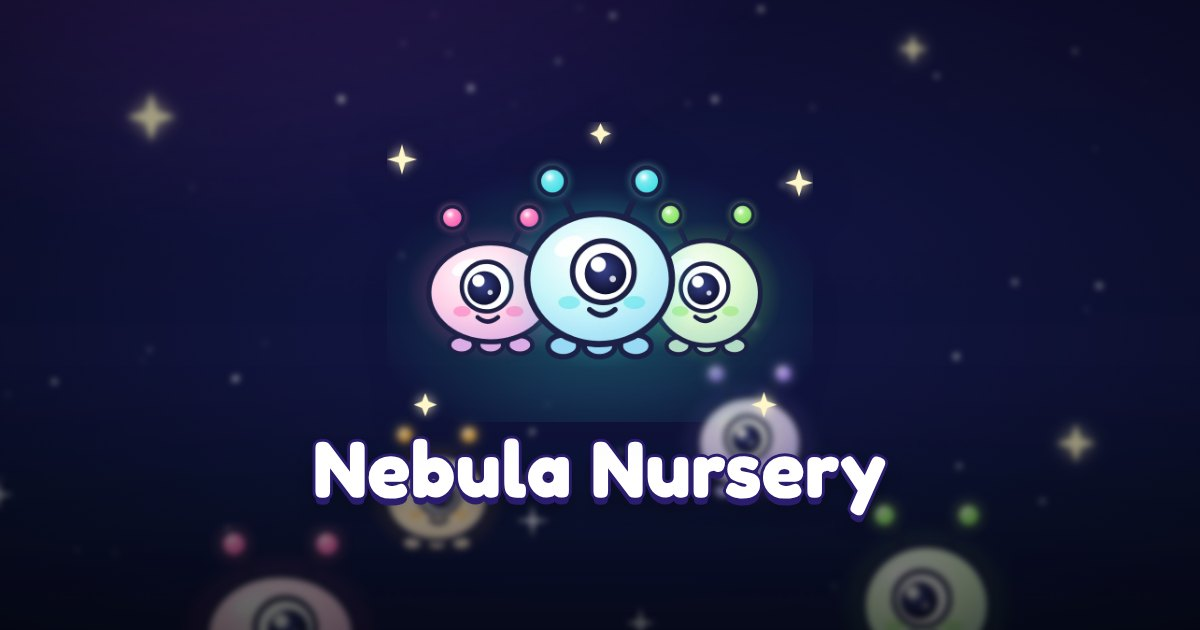
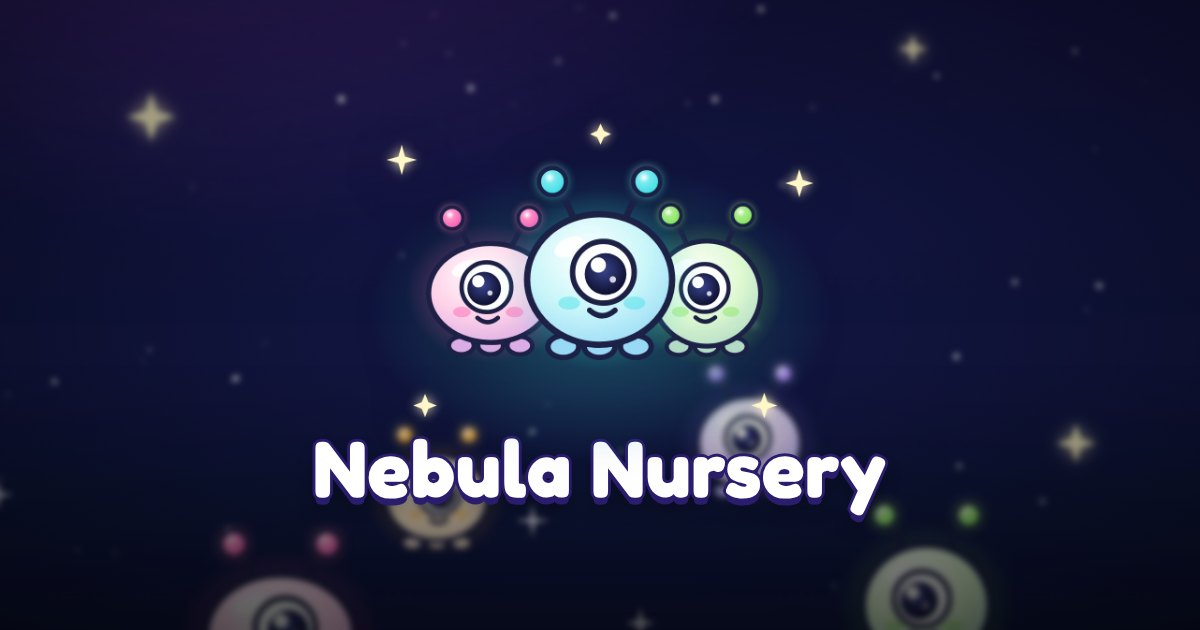
Engine 2026-10-20.1: askPlayerName option, share card glow fix, README play link check, engine problems reported directly (from ludea-ai/game-engine#21)
Claude-Session: https://claude.ai/code/session_01AuPULQEV2kyQe5SsTqgkcW

diff --git a/index.html b/index.html
@@ -11,12 +11,12 @@
   <meta name="apple-mobile-web-app-status-bar-style" content="black-translucent" />
   <meta name="apple-mobile-web-app-title" content="Nebula" />
   <title>Nebula Nursery</title>
-  <link rel="manifest" href="manifest.webmanifest?v=v65" />
-  <link rel="icon" type="image/png" href="assets/favicon.png?v=v65" />
-  <link rel="apple-touch-icon" href="assets/apple-touch-icon.png?v=v65" />
+  <link rel="manifest" href="manifest.webmanifest?v=v66" />
+  <link rel="icon" type="image/png" href="assets/favicon.png?v=v66" />
+  <link rel="apple-touch-icon" href="assets/apple-touch-icon.png?v=v66" />
   <link rel="preload" href="vendor/fonts/fredoka-latin.woff2" as="font" type="font/woff2" crossorigin />
-  <link rel="stylesheet" href="engine.css?v=v65" />
-  <link rel="stylesheet" href="style.css?v=v65" />
+  <link rel="stylesheet" href="engine.css?v=v66" />
+  <link rel="stylesheet" href="style.css?v=v66" />
   <!-- ludea:share (generated by share-preview.cjs — do not edit by hand) -->
   <meta name="description" content="Look after the little glowing critters!" />
   <meta property="og:type" content="website" />
@@ -24,7 +24,7 @@
   <meta property="og:title" content="Ludea – Nebula Nursery" />
   <meta property="og:description" content="Look after the little glowing critters!" />
   <meta property="og:url" content="https://ludea.ai/nebula/" />
-  <meta property="og:image" content="https://ludea.ai/nebula/assets/share.jpg?v=be70d16163" />
+  <meta property="og:image" content="https://ludea.ai/nebula/assets/share.jpg?v=e59fe0ad7e" />
   <meta property="og:image:width" content="1200" />
   <meta property="og:image:height" content="630" />
   <meta property="og:image:alt" content="Nebula Nursery" />
@@ -33,7 +33,7 @@
   <meta name="twitter:card" content="summary_large_image" />
   <meta name="twitter:title" content="Ludea – Nebula Nursery" />
   <meta name="twitter:description" content="Look after the little glowing critters!" />
-  <meta name="twitter:image" content="https://ludea.ai/nebula/assets/share.jpg?v=be70d16163" />
+  <meta name="twitter:image" content="https://ludea.ai/nebula/assets/share.jpg?v=e59fe0ad7e" />
   <!-- /ludea:share -->
 </head>
 <body>
@@ -121,9 +121,9 @@
   <!-- Night veil ("rest" transition), fullscreen -->
   <div id="night-veil"></div>
 
-  <script src="vendor/phaser.min.js?v=v65"></script>
-  <script src="game.config.js?v=v65"></script>
-  <script src="game.i18n.js?v=v65"></script>
-  <script src="engine.js?v=v65"></script>
+  <script src="vendor/phaser.min.js?v=v66"></script>
+  <script src="game.config.js?v=v66"></script>
+  <script src="game.i18n.js?v=v66"></script>
+  <script src="engine.js?v=v66"></script>
 </body>
 </html>

diff --git a/engine.js b/engine.js
@@ -329,6 +329,7 @@ function variantId(c) {
 }
 function variantDef(id) { return VARIANTS.find((v) => v.id === id) || VARIANTS[0]; }
 function charDef(id) { return CHARACTERS.find((p) => p.id === id) || CHARACTERS[0]; }
+const ASK_NAME = META.askPlayerName !== false; // false: the player's name is the chosen character's name
 
 /* ===================== Creatures ===================== */
 
@@ -717,6 +718,7 @@ function continueGame() {
   state = s;
   if (!state.player) state.player = { avatar: CHARACTERS[0].id };
   if (!charDef(state.player.avatar) || !CHARACTERS.some((p) => p.id === state.player.avatar)) state.player.avatar = CHARACTERS[0].id;
+  if (!ASK_NAME) state.player.name = charDef(state.player.avatar).name; // a name typed before the option was set is not kept
   if (!state.resources) state.resources = Object.assign({}, ECON.startResources || {});
   if (!state.decors) state.decors = [];
   state.decors = state.decors.filter((d) => d && DECOR.some((x) => x.id === d.id) && typeof d.x === "number");
@@ -936,9 +938,10 @@ function openCreate(player, onValidate) {
     b.innerHTML = iconHTML("arrow"); b.classList.toggle("hidden", !many);
     b.onclick = () => step(i ? 1 : -1);
   });
-  cont.innerHTML = `<div class="avatar-row" id="grp-avatar"></div>
+  // meta.askPlayerName:false — the player IS a named hero: no name field, the hero keeps its own name.
+  cont.innerHTML = `<div class="avatar-row" id="grp-avatar"></div>` + (!ASK_NAME ? "" : `
     <label class="field-label" for="create-name">${esc(META.namePromptYou || L("Your name"))}</label>
-    <input id="create-name" type="text" maxlength="14" placeholder="${esc(META.namePromptYou || L("Your name"))}" value="${esc(pendingPlayer.name || "")}" />`;
+    <input id="create-name" type="text" maxlength="14" placeholder="${esc(META.namePromptYou || L("Your name"))}" value="${esc(pendingPlayer.name || "")}" />`);
   const ga = $("grp-avatar");
   if (!many) ga.classList.add("hidden");
   CHARACTERS.forEach((p) => {
@@ -950,8 +953,8 @@ function openCreate(player, onValidate) {
   });
   draw();
   $("btn-create-ok").onclick = () => {
-    const n = $("create-name").value.trim();
-    pendingPlayer.name = n || pendingPlayer.name || charDef(pendingPlayer.avatar).name;
+    const n = ASK_NAME ? $("create-name").value.trim() : "";
+    pendingPlayer.name = ASK_NAME ? (n || pendingPlayer.name || charDef(pendingPlayer.avatar).name) : charDef(pendingPlayer.avatar).name;
     onValidate();
     if (state) { $("screen-create").classList.add("hidden"); $("screen-game").classList.remove("hidden"); themeColor(TINT_PLAY); buildHud(); refreshHud(); }
   };

diff --git a/game.config.js b/game.config.js
@@ -35,12 +35,13 @@ window.GAME = {
     saveKey: "nebula-nursery",
     legalLinks: [{ label: "Legal notice", url: "https://ludea.ai/legal/" }, { label: "Privacy", url: "https://ludea.ai/privacy/" }, { label: "Contact", url: "https://ludea.ai/contact/" }],
     audience: { minAge: 6, notes: "all-ages, gentle, cute, no violence" },
-    assetVersion: "v65",
+    assetVersion: "v66",
     theme: { home: "#120c34", play: "#0b1029", closeup: "#1b1150" },
     showCoins: true,
     coinIcon: "shard",                // the currency: star shards
     namePrompt: { label: "Name your nursery:", placeholder: "Starlight Bay" },
     startName: "My Nursery",
+    askPlayerName: false,               // the keeper IS Bolt or Sol: no "Your name" field, the robot keeps its name
     namePromptYou: "Your name",
     avatarPrompt: "Pick your keeper",
     createTitle: "Choose your keeper",

diff --git a/.claude/skills/report-upstream/SKILL.md b/.claude/skills/report-upstream/SKILL.md
@@ -1,6 +1,6 @@
 ---
 name: report-upstream
-description: Report back to the Ludea engine, AUTOMATICALLY and without asking the creator anything technical, what this game's work taught — bugs hit in the engine / skills / tooling / docs / template, and engine improvements ALREADY implemented in this game (the engine-layer drift, with its patch). Creates de-duplicated issues on ludea-ai/game-engine (or gives a one-click prefilled link when this session can't write there). Run by capitalize-learnings after every feature/bugfix, at the end of new-game, and before any sync-engine that would overwrite local engine changes. Triggers: "report this to the engine", "send the improvements back to Ludea", "tell the engine team", after capitalize-learnings.
+description: Report back to the Ludea engine, AUTOMATICALLY and without asking the creator anything technical, what this game's work taught — bugs hit in the engine / skills / tooling / docs / template, and engine improvements ALREADY implemented in this game (the engine-layer drift, with its patch). Creates de-duplicated issues on ludea-ai/game-engine (or gives a one-click prefilled link when this session can't write there). Run by capitalize-learnings after every feature/bugfix, at the end of new-game, before any sync-engine that would overwrite local engine changes, and by update / release-deploy / visual-review / test-debug as soon as they notice an engine-layer defect. Triggers: "report this to the engine", "send the improvements back to Ludea", "tell the engine team", after capitalize-learnings.
 ---
 
 # report-upstream (game → Ludea engine, automatic)
@@ -82,13 +82,16 @@ _Generated by [Claude Code](https://claude.ai/code)_
 creator's private messages verbatim, whole transcripts. Describe, don't paste.
 
 ## 4. Send it (first route that works)
-**Expect no access**: a session opened on a creator's game usually has GitHub access to that repo
-only — the MCP tools answer "repository not configured for this session" for `ludea-ai/*` and `gh`
-is often not logged in. That's normal. Before the de-duplication step (it needs the same access),
-ask the creator ONE plain question, in their language, and say it will be public:
+**Try direct access first** (game-engine#18): when the `add_repo` tool exists, call it for
+`ludea-ai/game-engine` (access `push` — issues only need any GitHub account) BEFORE asking anything,
+then ToolSearch "github issue" and use route 1. It usually works on the first try; never stop at a
+link while it does. Only when `add_repo` is missing or refused, read the game's CLAUDE.md §10 for a
+line `Upstream reports: direct` or `Upstream reports: link` (the creator's earlier answer) and follow
+it; with no such line, ask ONE plain question, in the creator's language, saying it will be public:
 « Je peux envoyer ça à Ludea moi-même (il me faut l'accès au dépôt Ludea) ou te donner un lien
-déjà rempli. Que préfères-tu ? » — *myself* → `add_repo` `ludea-ai/game-engine` (when the tool
-exists) then route 1; *link* → route 3 (de-duplicate by reading the public issues list).
+déjà rempli. Que préfères-tu ? » — then write their answer in CLAUDE.md §10 (`Upstream reports:
+direct` / `link`) so it is asked at most once per game. *Direct* → route 1 or 2; *link* → route 3
+(de-duplicate by reading the public issues list).
 Repos of the Ludea organisation (nebula, game-engine, Ludea's games) have access: no question.
 1. **GitHub MCP** `issue_write` (method create) on `ludea-ai/game-engine` (if the tool is not
    loaded, ToolSearch "github issue"). Public repos accept issues from any GitHub account.
@@ -117,5 +120,7 @@ Keep the local change: the game keeps working; the next engine sync brings it ba
   game's own repo is normal.
 
 ## Chaining
-**capitalize-learnings** → **report-upstream** → release-deploy. **sync-engine** refuses to
+**capitalize-learnings** → **report-upstream** → release-deploy. Also run directly by **update**,
+**release-deploy**, **visual-review** and **test-debug** as soon as they notice a defect in the engine
+layer or its tooling, even when their own task succeeded (game-engine#18). **sync-engine** refuses to
 overwrite unreported drift (run this first). Ideas from the creator go through **/idea**.

diff --git a/.claude/skills/update/SKILL.md b/.claude/skills/update/SKILL.md
@@ -42,14 +42,23 @@ Red → don't publish: fix if it is the game's config; if it is the engine, undo
 (`git checkout -- . && git clean -fd .claude`), **report-upstream** it as a bug, tell the creator
 plainly that the update waits for a fix.
 
-## 4. Put it online and tell
+## 4. Report what looked wrong in the engine
+**Engine problems noticed along the way are reported now** (game-engine#18): anything wrong in the
+engine layer or its tooling that you noticed during this task — a tool output that looks wrong, a
+file the sync left behind, a missing browser, a doc that misled you — goes to **report-upstream**
+before you tell the creator, even when the task itself succeeded. Never leave it at a mention or a
+link for the creator to click. (In `ludea-ai/*` you ARE upstream: fix it there instead.)
+Also make the README's « Play » link lead to where the game is served (a moved game kept a dead
+link, game-engine#19): `node .claude/skills/_shared/public-url.cjs --readme --fix`.
+
+## 5. Put it online and tell
 `node .claude/skills/_shared/bump-version.mjs`, commit (`Engine <version> from the Ludea template`),
 push, check the deploy is green (release-deploy). Then, in their language, 2–3 lines: what is new
 for their game, what was checked, what was NOT (real phone, sound), and the build number to look
 for at the bottom of the home screen. If the game is in the Ludea catalogue, a new
 **/publish** sends the updated version for review.
 
-## 5. Suggest what the game could now do (never switch it on alone)
+## 6. Suggest what the game could now do (never switch it on alone)
 Read the `### New — you can switch it on` lines of every version between the old and the new
 engine (`update-check.cjs --json` → `news`, or `_shared/CHANGELOG.md`). Keep the 1–3 that fit THIS
 game (look at its config: missions? a chase? riding? young players?) and offer them as ideas, in

diff --git a/.claude/skills/release-deploy/SKILL.md b/.claude/skills/release-deploy/SKILL.md
@@ -28,7 +28,12 @@ Cleanly publish a change to production.
    ```bash
    node .claude/skills/_shared/share-preview.cjs        # writes assets/share.jpg + the tags in index.html
    ```
-   Look at `assets/share.jpg` when it changed (title readable, logo not cut).
+   Look at `assets/share.jpg` when it changed (title readable, logo not cut, no box around it).
+   And the README's « Play » link must lead to where the game is served (a moved game kept a dead
+   link, game-engine#19) — it rewrites a wrong one, no network:
+   ```bash
+   node .claude/skills/_shared/public-url.cjs --readme --fix
+   ```
 3. **Verify** — Bash: `node --check engine.js && node --check game.config.js`, the
    separation audit, `art-check.cjs`, and the regression tour (`probes/tour.cjs`, errors
    must be empty). If art/UI changed, **visual-review** must have been done.
@@ -58,4 +63,9 @@ Cleanly publish a change to production.
   (or Settings → Pages → Source: GitHub Actions) — then re-run the failed run (`gh run rerun <id>`).
 
 ## Chaining
+**Engine problems noticed along the way are reported now** (game-engine#18): anything wrong in the
+engine layer or its tooling that you noticed during this task — a tool output that looks wrong, a
+file the sync left behind, a missing browser, a doc that misled you — goes to **report-upstream**
+before you tell the creator, even when the task itself succeeded. Never leave it at a mention or a
+link for the creator to click. (In `ludea-ai/*` you ARE upstream: fix it there instead.)
 Last step, after **test-debug** (the feature works) and, for a map change, after **map-verify**.

diff --git a/.claude/skills/_shared/CHANGELOG.md b/.claude/skills/_shared/CHANGELOG.md
@@ -8,6 +8,21 @@ their game). Two lists per version:
   **what it lets you do** — `config key` — the kind of game it suits.
 - `### Better — automatic`: fixes and improvements every game gets just by updating.
 
+## 2026-10-20.1
+### New — you can switch it on
+- **The player is a named hero, not themself**: the creation screen no longer asks « Your name »,
+  the hero keeps its own name (and changes with the chosen character) — `meta.askPlayerName: false`
+  — games whose hero is a mascot; in a children's game, no child types their real first name.
+### Better — automatic
+- **The link preview card** no longer shows a faint box around a logo with a soft glow; every
+  game's card is redrawn at its next release.
+- **The « Play » link of your README** is checked and corrected at every update and release, so it
+  always leads to where the game is really online (`public-url.cjs --readme --fix`); /publish warns
+  about a wrong one.
+- **Problems in the engine are sent to Ludea right away**: the update, release, visual and test steps
+  report any engine problem they notice, directly when the session can reach Ludea — no more link to
+  click.
+
 ## 2026-10-19.5
 ### Better — automatic
 - **Safer tools**: the tools that read your game's settings (translations, link preview, systems map,

diff --git a/ENGINE.md b/ENGINE.md
@@ -93,6 +93,10 @@ theme: { home, play, closeup },        // iOS theme-color per screen
 showCoins,                             // false → hide the coins HUD (no economy)
 showDay, showCreatureCount,            // false → hide the day / creature-count HUD chips (minimal HUD)
 showCapacity,                          // creature count: show "n/cap" vs bare "n". Default auto: "/cap" only when group size can change (breeding / spawn station / capacity shop)
+askPlayerName,                         // false → the player IS a named hero: no "Your name" field on the create screen; the
+                                       // player's name = the chosen character's `name` (follows a change of avatar; a name
+                                       // typed in an older save is replaced on load). Default true (asks). The place-name
+                                       // question on the home screen (namePrompt) is unchanged. Kids' games: no child types a first name.
 coinIcon, namePrompt:{label,placeholder}, startName, namePromptYou, avatarPrompt,
 createTitle, createOkLabel, startLabel, continueLabel, continueHint, helpTitle,
 ageUnit, and, nightMessage, restBlockedHint, neglectMessage, morningMessage,

diff --git a/CLAUDE.md b/CLAUDE.md
@@ -197,6 +197,10 @@ like a game made by a studio — not a prototype. Concretely:
   `--chip-bg` with two ROUND flags and a `--primary` knob that slides behind the active one; a tap
   switches. Owner iterations (don't redo them): text `FR · EN` = invisible; big 40 px flags = too
   big; tiny footer flags = no; flags merged into a split pill = "pas fan" → KEEP this knob toggle. Any new/changed text ships translated (`--check`).
+- **Engine problems found along the way are reported directly** (owner, 2026-10-19): in a game, any
+  defect noticed in the engine layer or its tooling (even while the task succeeds) → run
+  **report-upstream** yourself (`add_repo` ludea-ai/game-engine, then the issue). Never stop at a
+  prefilled link for the owner to click; don't ask when access works. In `ludea-ai/*`, fix it upstream.
 - **Requests are often dictated by voice**: names and creatures can be mis-transcribed (a "petit
   poulpe" — octopus — once arrived as "petit poulet" — chick — and a whole hero was drawn for nothing).
   Before drawing a hero, cross-check the request with the repo name / title, and when a word could be

diff --git a/.claude/skills/new-game/SKILL.md b/.claude/skills/new-game/SKILL.md
@@ -70,7 +70,10 @@ section by section:
 - `meta` (title, icons, logo, save key, theme colours, **audience**, UI strings incl.
   `meta.strings` for engine labels, language)
 - `render` (pixelArt:false, vignette, label pills, ambient particles), `audio` (music mood)
-- `world` + `camera`, `assets` (images/sheets), `player` + `characters`
+- `world` + `camera`, `assets` (images/sheets), `player` + `characters` — when the player IS a named
+  hero (a mascot with its own name, not the child themself), set `meta.askPlayerName: false`: the
+  create screen then doesn't ask « Your name » (no child types a real first name) and the hero keeps
+  its `characters[].name`
 - `creature` (label, needs, actions with effects/costs/rewards, variants, customize,
   ride/jump, celebrate, aging, breeding, names, start state) — omit systems not wanted
 - `zones`, `stations`, `economy` + `shop`, `decor`

diff --git a/.claude/skills/test-debug/SKILL.md b/.claude/skills/test-debug/SKILL.md
@@ -82,6 +82,11 @@ node .claude/skills/_shared/playtest.cjs --engine webkit --device "iPhone 13" --
 - If a functional choice is ambiguous, ask via **AskUserQuestion**.
 
 ## Chaining
+**Engine problems noticed along the way are reported now** (game-engine#18): anything wrong in the
+engine layer or its tooling that you noticed during this task — a tool output that looks wrong, a
+file the sync left behind, a missing browser, a doc that misled you — goes to **report-upstream**
+before you tell the creator, even when the task itself succeeded. Never leave it at a mention or a
+link for the creator to click. (In `ludea-ai/*` you ARE upstream: fix it there instead.)
 Before **map-verify** (map visuals) and **release-deploy** (publish).
 Called by the **feedback-session** orchestrator for each item.
 

diff --git a/.claude/skills/visual-review/SKILL.md b/.claude/skills/visual-review/SKILL.md
@@ -112,4 +112,9 @@ List what you checked and every defect found → fix → re-run 1–3. Never dec
 on art/UI without having looked at full-size crops and the tour screenshots.
 
 ## Chaining
+**Engine problems noticed along the way are reported now** (game-engine#18): anything wrong in the
+engine layer or its tooling that you noticed during this task — a tool output that looks wrong, a
+file the sync left behind, a missing browser, a doc that misled you — goes to **report-upstream**
+before you tell the creator, even when the task itself succeeded. Never leave it at a mention or a
+link for the creator to click. (In `ludea-ai/*` you ARE upstream: fix it there instead.)
 asset generation / UI change → **visual-review** (incl. the adversarial review) → test-debug → release-deploy.
